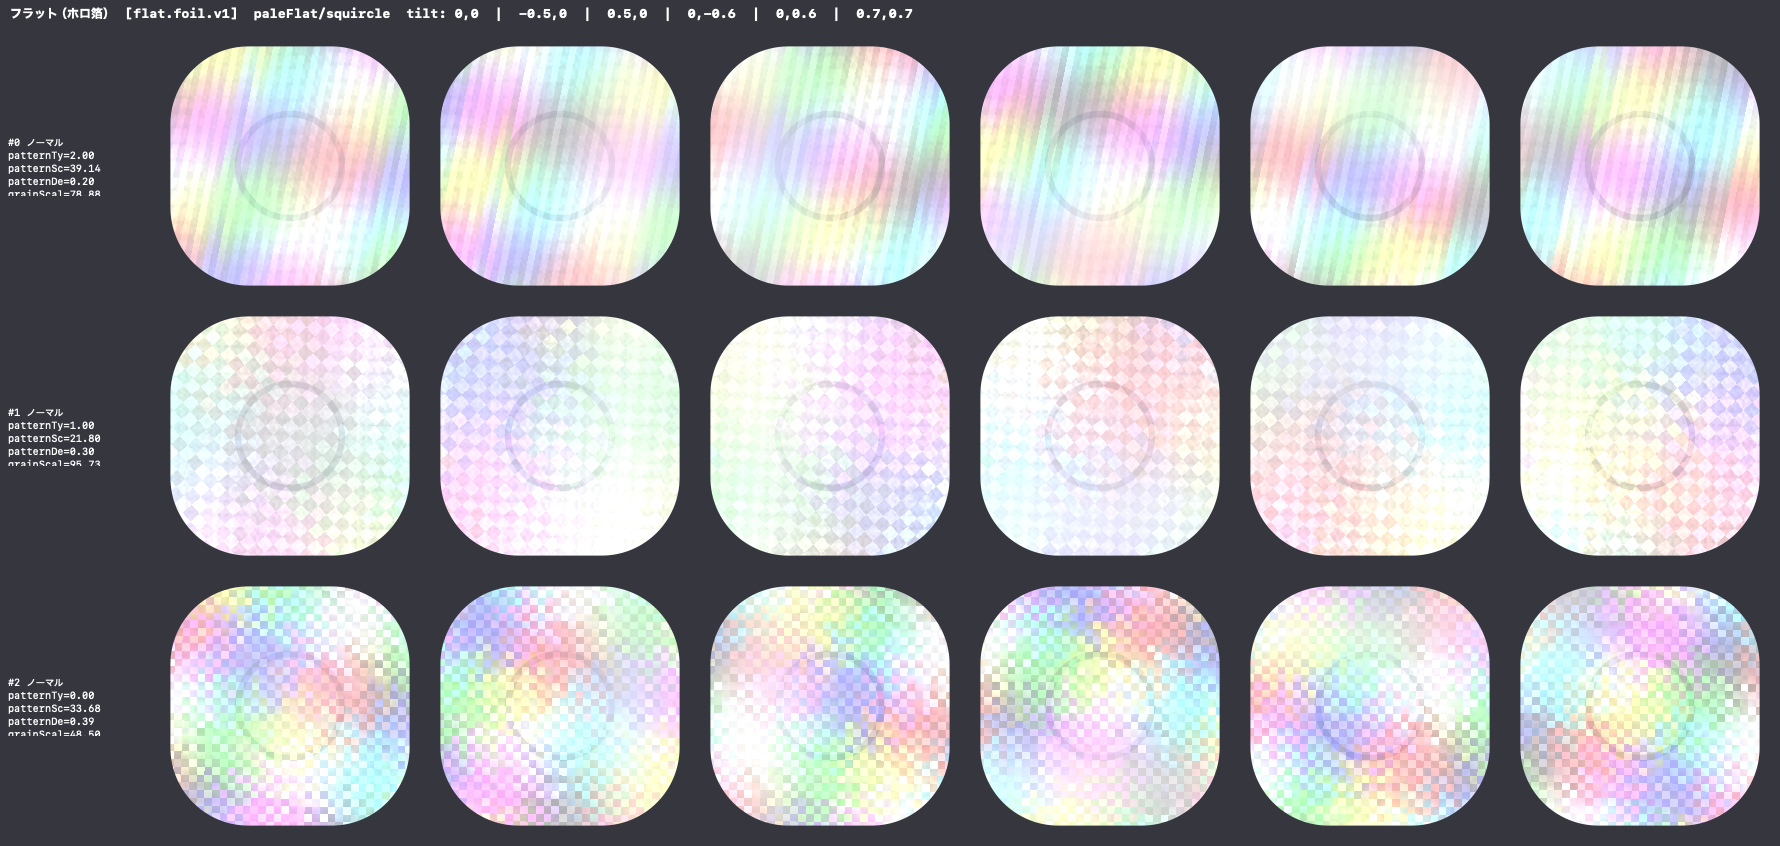
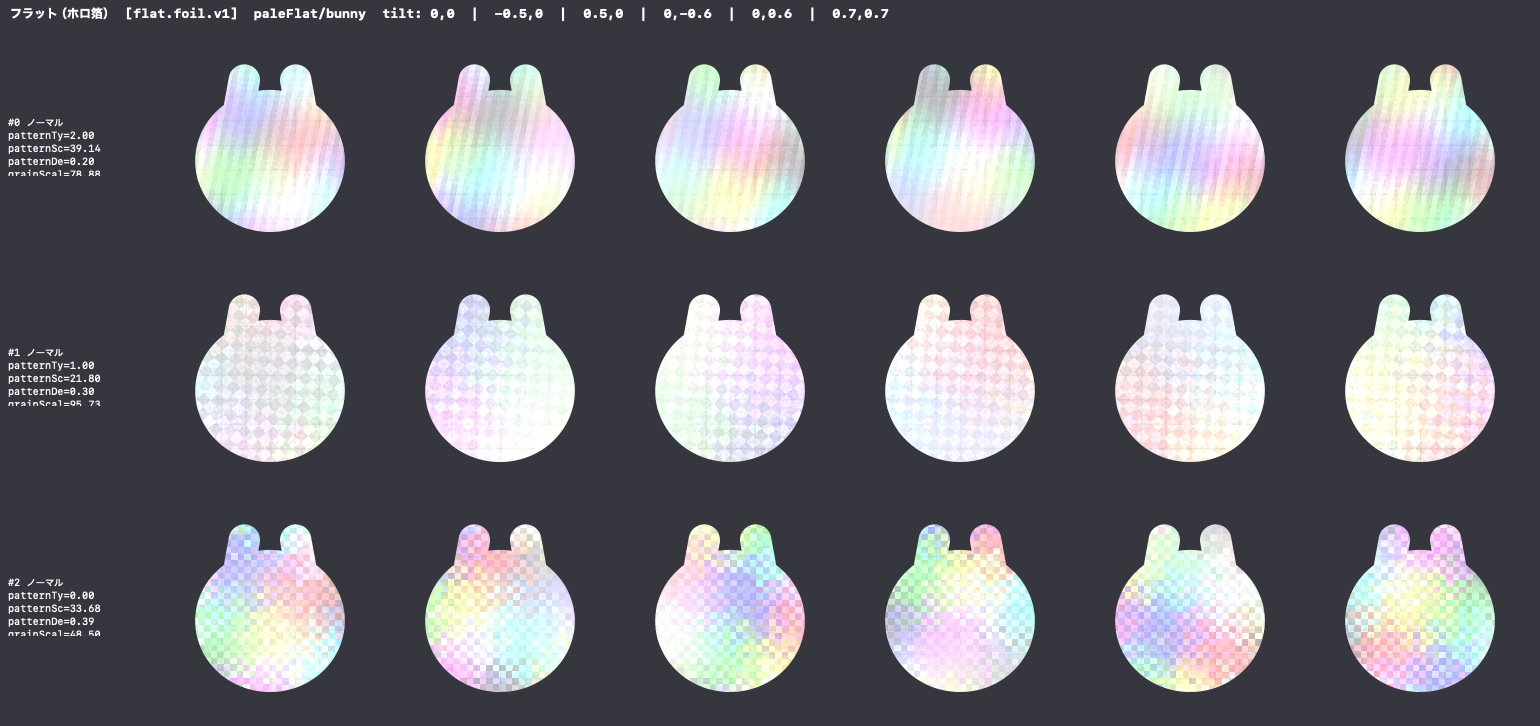
検証用の被写体を枠に対する比率で描き直す
被写体が絶対ポイントで描かれていたため、同じ個体でも一覧の小さな枠と
拡大表示とで別の絵になっていた。加工シェーダーは正規化座標か minDim 基準で
書いてあり、スケール依存はすべて被写体側から来ていた。

あわせて、絵として「物」に見える形（夕景の太陽と地平線、人物風の頭と肩）を
外す。加工が作る筋・光・接地線と被写体の輪郭が見分けられなくなるため。
見たいのは階調と彩度の条件だけなので、グラデーションと帯で作り直した。

淡い平坦にだけ薄い格子を敷く。屈折で縁の像が詰まるかは直線が曲がる場所でしか
読めないため、判定用の目盛りとして置く。

オフラインの焼き出し台の被写体も同じ絵に揃えた。焼いた PNG がそのまま実機に
出る、という前提を崩さないため。

Claude-Session: https://claude.ai/code/session_01XAeZ5qsdR5DrzazJxns7UA

diff --git a/StickerLab/Render/SubjectLibrary.swift b/StickerLab/Render/SubjectLibrary.swift
@@ -5,6 +5,11 @@ import SwiftUI
 ///
 /// 特に「明るく平坦な素材」はホロ箔が乗りにくく、加工が最も苦しくなる条件のため、
 /// 検証対象として必ず含める。
+///
+/// **寸法はすべて枠に対する比率で書く。** 絶対ポイントで描くと、同じ個体が
+/// 一覧の小さな枠と拡大表示とで別の絵になり、加工の評価ができなくなる。
+/// また、絵として「物」に見える形（丸や台座）は置かない。加工の筋や光が
+/// 被写体の輪郭と見分けられなくなるため。見たいのは階調と彩度の条件だけ。
 enum SubjectLibrary {
 
     struct Subject: Identifiable {
@@ -14,7 +19,7 @@ enum SubjectLibrary {
 
     static let builtins: [Subject] = [
         Subject(id: "sunset", displayName: "夕景（暗部あり）"),
-        Subject(id: "portrait", displayName: "人物風（中間調）"),
+        Subject(id: "portrait", displayName: "中間調（肌色系）"),
         Subject(id: "paleFlat", displayName: "淡い平坦（最難条件）"),
         Subject(id: "graphic", displayName: "高彩度グラフィック")
     ]
@@ -44,79 +49,109 @@ enum SubjectLibrary {
     }
 }
 
+/// 暗部から明部まで一気に振れる縦のグラデーション。
+/// 箔とハイライトが「暗いところ」と「白飛び寸前のところ」の両方でどう出るかを一枚で見る。
 private struct SunsetSubject: View {
     var body: some View {
-        ZStack {
-            LinearGradient(
-                colors: [Color(red: 0.10, green: 0.08, blue: 0.26),
-                         Color(red: 0.56, green: 0.20, blue: 0.35),
-                         Color(red: 0.96, green: 0.56, blue: 0.28)],
-                startPoint: .top, endPoint: .bottom
-            )
-            Circle()
-                .fill(Color(red: 1.0, green: 0.86, blue: 0.55))
-                .frame(width: 60, height: 60)
-                .offset(y: 26)
-                .blur(radius: 2)
-            Ellipse()
-                .fill(Color(red: 0.06, green: 0.05, blue: 0.13))
-                .frame(width: 260, height: 70)
-                .offset(y: 92)
+        GeometryReader { proxy in
+            let side = min(proxy.size.width, proxy.size.height)
+            ZStack {
+                LinearGradient(
+                    colors: [Color(red: 0.07, green: 0.06, blue: 0.20),
+                             Color(red: 0.32, green: 0.13, blue: 0.33),
+                             Color(red: 0.78, green: 0.33, blue: 0.32),
+                             Color(red: 0.99, green: 0.74, blue: 0.42)],
+                    startPoint: .top, endPoint: .bottom
+                )
+                // 明部側にさらに明るい広がりを足す。輪郭を持たせないため、
+                // 枠いっぱいまで滑らかに落ちるだけの薄い層にする。
+                RadialGradient(
+                    colors: [Color(red: 1.0, green: 0.92, blue: 0.72).opacity(0.55), .clear],
+                    center: UnitPoint(x: 0.5, y: 0.78), startRadius: 0, endRadius: side * 0.95
+                )
+            }
         }
     }
 }
 
+/// 肌に近い中間調。加工がいちばん自然に見えるべき条件。
 private struct PortraitSubject: View {
     var body: some View {
-        ZStack {
-            RadialGradient(
-                colors: [Color(red: 0.86, green: 0.80, blue: 0.74), Color(red: 0.42, green: 0.38, blue: 0.44)],
-                center: .init(x: 0.42, y: 0.34), startRadius: 8, endRadius: 180
-            )
-            Circle()
-                .fill(Color(red: 0.93, green: 0.82, blue: 0.72))
-                .frame(width: 92, height: 92)
-                .offset(y: -16)
-            Capsule()
-                .fill(Color(red: 0.28, green: 0.30, blue: 0.40))
-                .frame(width: 140, height: 120)
-                .offset(y: 96)
+        GeometryReader { proxy in
+            let side = min(proxy.size.width, proxy.size.height)
+            ZStack {
+                RadialGradient(
+                    colors: [Color(red: 0.90, green: 0.83, blue: 0.76),
+                             Color(red: 0.62, green: 0.53, blue: 0.52),
+                             Color(red: 0.36, green: 0.33, blue: 0.40)],
+                    center: UnitPoint(x: 0.38, y: 0.30), startRadius: 0, endRadius: side * 1.05
+                )
+                LinearGradient(
+                    colors: [.clear, Color(red: 0.20, green: 0.17, blue: 0.24).opacity(0.45)],
+                    startPoint: .top, endPoint: .bottom
+                )
+            }
         }
     }
 }
 
+/// 淡く平坦。加算で虹を乗せる作りが白く飛んで消える、いちばん苦しい条件。
+///
+/// 細い格子を薄く敷いてある。縁で像が圧縮される（屈折）かどうかは、
+/// 直線が曲がるところでしか読み取れないため、判定用の目盛りとして置く。
 private struct PaleFlatSubject: View {
     var body: some View {
-        ZStack {
-            Color(red: 0.93, green: 0.93, blue: 0.94)
-            LinearGradient(
-                colors: [Color.white.opacity(0.9), Color(red: 0.87, green: 0.88, blue: 0.90)],
-                startPoint: .topLeading, endPoint: .bottomTrailing
-            )
-            Circle()
-                .stroke(Color(red: 0.78, green: 0.79, blue: 0.82), lineWidth: 6)
-                .frame(width: 96, height: 96)
+        GeometryReader { proxy in
+            let side = min(proxy.size.width, proxy.size.height)
+            ZStack {
+                LinearGradient(
+                    colors: [Color(red: 0.96, green: 0.96, blue: 0.97),
+                             Color(red: 0.86, green: 0.87, blue: 0.90)],
+                    startPoint: .topLeading, endPoint: .bottomTrailing
+                )
+                Canvas { context, size in
+                    let step = side / 9
+                    let line = max(0.5, side * 0.006)
+                    var path = Path()
+                    var x = step / 2
+                    while x < size.width {
+                        path.addRect(CGRect(x: x, y: 0, width: line, height: size.height))
+                        x += step
+                    }
+                    var y = step / 2
+                    while y < size.height {
+                        path.addRect(CGRect(x: 0, y: y, width: size.width, height: line))
+                        y += step
+                    }
+                    context.fill(path, with: .color(Color(red: 0.74, green: 0.75, blue: 0.79).opacity(0.55)))
+                }
+            }
         }
     }
 }
 
+/// 高彩度。すでに色が付いている上に箔を乗せると濁らないか、を見る。
 private struct GraphicSubject: View {
     var body: some View {
-        ZStack {
-            Color(red: 0.05, green: 0.06, blue: 0.10)
-            ForEach(0..<5, id: \.self) { index in
-                Capsule()
-                    .fill(
-                        [Color(red: 1.0, green: 0.30, blue: 0.45),
-                         Color(red: 0.25, green: 0.85, blue: 0.95),
-                         Color(red: 1.0, green: 0.82, blue: 0.25),
-                         Color(red: 0.55, green: 0.40, blue: 1.0),
-                         Color(red: 0.30, green: 0.95, blue: 0.55)][index]
-                    )
-                    .frame(width: 46, height: 220)
-                    .rotationEffect(.degrees(Double(index) * 34 - 60))
-                    .offset(x: CGFloat(index) * 26 - 52)
+        GeometryReader { proxy in
+            let side = min(proxy.size.width, proxy.size.height)
+            ZStack {
+                Color(red: 0.05, green: 0.06, blue: 0.10)
+                ForEach(0..<5, id: \.self) { index in
+                    Capsule()
+                        .fill(
+                            [Color(red: 1.0, green: 0.30, blue: 0.45),
+                             Color(red: 0.25, green: 0.85, blue: 0.95),
+                             Color(red: 1.0, green: 0.82, blue: 0.25),
+                             Color(red: 0.55, green: 0.40, blue: 1.0),
+                             Color(red: 0.30, green: 0.95, blue: 0.55)][index]
+                        )
+                        .frame(width: side * 0.19, height: side * 1.8)
+                        .rotationEffect(.degrees(Double(index) * 34 - 60))
+                        .offset(x: side * (CGFloat(index) * 0.105 - 0.21))
+                }
             }
+            .frame(width: proxy.size.width, height: proxy.size.height)
         }
     }
 }

diff --git a/Tools/ShaderPreview/main.swift b/Tools/ShaderPreview/main.swift
@@ -23,16 +23,27 @@ enum PreviewSubject: String, CaseIterable {
             ctx.setFillColor(CGColor(red: 0.97, green: 0.97, blue: 0.98, alpha: 1))
             ctx.fill(rect)
         case .paleFlat:
-            drawGradient(ctx, rect, [(0.95, 0.95, 0.96), (0.86, 0.87, 0.90)])
-            ctx.setStrokeColor(CGColor(red: 0.74, green: 0.75, blue: 0.79, alpha: 1))
-            ctx.setLineWidth(rect.width * 0.025)
-            ctx.strokeEllipse(in: rect.insetBy(dx: rect.width * 0.3, dy: rect.height * 0.3))
+            drawGradient(ctx, rect, [(0.96, 0.96, 0.97), (0.86, 0.87, 0.90)])
+            // 薄い格子。屈折で縁の像が詰まるかどうかは、直線が曲がる場所でしか読めない。
+            ctx.setFillColor(CGColor(red: 0.74, green: 0.75, blue: 0.79, alpha: 0.55))
+            let step = rect.width / 9
+            let line = max(0.5, rect.width * 0.006)
+            var x = rect.minX + step / 2
+            while x < rect.maxX {
+                ctx.fill(CGRect(x: x, y: rect.minY, width: line, height: rect.height))
+                x += step
+            }
+            var y = rect.minY + step / 2
+            while y < rect.maxY {
+                ctx.fill(CGRect(x: rect.minX, y: y, width: rect.width, height: line))
+                y += step
+            }
         case .sunset:
-            drawGradient(ctx, rect, [(0.10, 0.08, 0.26), (0.56, 0.20, 0.35), (0.96, 0.56, 0.28)])
-            ctx.setFillColor(CGColor(red: 1.0, green: 0.86, blue: 0.55, alpha: 1))
-            ctx.fillEllipse(in: CGRect(x: rect.midX - rect.width * 0.12,
-                                       y: rect.midY - rect.height * 0.32,
-                                       width: rect.width * 0.24, height: rect.width * 0.24))
+            // 暗部から白飛び寸前まで一気に振る縦のグラデーション。
+            // 「物」に見える形は置かない。加工の筋と被写体の輪郭が見分けられなくなる。
+            // 焼き出しは上下が反転するので、アプリ側（上が暗い）と揃うよう逆順で渡す。
+            drawGradient(ctx, rect, [(0.99, 0.74, 0.42), (0.78, 0.33, 0.32),
+                                     (0.32, 0.13, 0.33), (0.07, 0.06, 0.20)])
         case .graphic:
             ctx.setFillColor(CGColor(red: 0.05, green: 0.06, blue: 0.10, alpha: 1))
             ctx.fill(rect)

diff --git a/docs/PHASE0.md b/docs/PHASE0.md
@@ -49,6 +49,13 @@ xcrun simctl launch <device> com.stickerlab.phase0 -startTab 2 -focusMaterial 1
 
 被写体・切り抜き形状・傾きの供給源はどのタブからも切り替えられる。被写体には「淡い平坦」を必ず含めてある。ホロ箔が最も乗りにくい条件であり、ここで破綻しないことが加工設計の下限になる。
 
+検証用の被写体には制約が 2 つある。
+
+- **寸法はすべて枠に対する比率で書く。** 絶対ポイントで描くと、一覧の小さな枠と拡大表示とで同じ個体が別の絵になり、加工を評価できない。加工シェーダー側はすべて正規化座標か `minDim` 基準なので、スケール依存が出るとすれば被写体側。
+- **「物」に見える形を置かない。** 丸や台座のような輪郭があると、加工が作る筋・光・接地線と被写体の絵柄が見分けられなくなる。見たいのは階調と彩度の条件だけなので、グラデーションと帯で作る。淡い平坦にだけ薄い格子を敷いてあるが、これは屈折で縁の像が詰まるかを読むための目盛りで、直線が曲がる場所でしか判定できないため置いている。
+
+オフラインの焼き出し台（`Tools/ShaderPreview`）の被写体もアプリと同じ絵にしてある。焼いた PNG で見えたものがそのまま実機に出る、という前提を崩さないため。
+
 ---
 
 ## 3. 実装の構造
